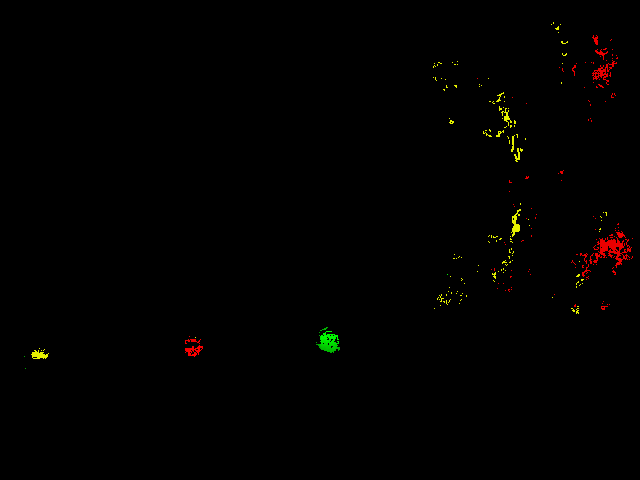
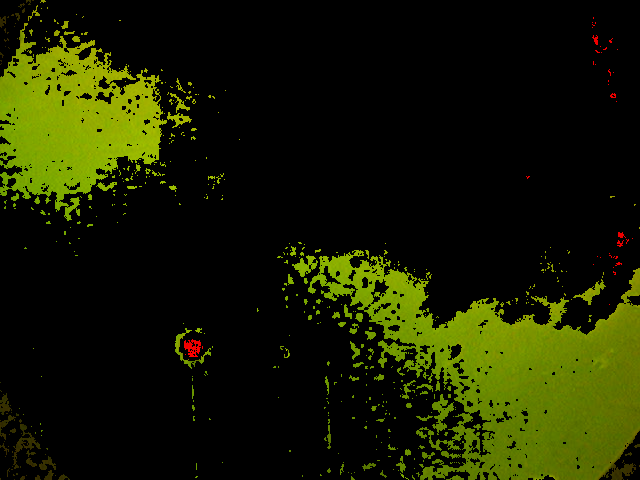
yellow_hls

diff --git a/GMM.py b/GMM.py
@@ -12,6 +12,8 @@ import cv2
 import sys
 import glob
 import math
+from copy import deepcopy
+
 
 # from matplotlib.patches import Ellipse
 # from PIL import Image
@@ -256,12 +258,22 @@ def create_pdf(params, X, img, shape, name):
     print("seg:", seg_g.shape)
 
     pdf = np.zeros((len(X),3))
+    # img_copy = deepcopy(img)
+    img_hls = cv2.cvtColor(img, cv2.COLOR_RGB2HLS)
+    X_hls = img_hls.reshape((img_hls.shape[0]*img_hls.shape[1], img_hls.shape[2]))
     x = np.array(X, dtype='uint8')
+    x_hls = np.array(X_hls, dtype='uint8')
 
     # get pixel probabilities for all clusters
     for i, clusters in enumerate(params):
+        if i < 2:
+            x_ = x
+        else:
+            x_[:, 0] = x_hls[:, 2]
+            x_[:, 1] = x_hls[:, 1]
+            x_[:, 2] = x_hls[:, 0]
         for cluster in clusters:
-            y_r = multivariate_normal.pdf(x, cluster['mu_k'], cluster['cov_k'])
+            y_r = multivariate_normal.pdf(x_, cluster['mu_k'], cluster['cov_k'])
             pdf[:,i] = pdf[:,i] + cluster['pi_k'] * y_r
 
     # Display generated GMM models
@@ -280,9 +292,9 @@ def create_pdf(params, X, img, shape, name):
     # fig3 = plt.figure()
     # ax3 = fig3.gca()
     # ax3.set_title("Yellow")
-    # ax3.plot(x[:,0], pdf[:,2], 'r')
-    # ax3.plot(x[:,1], pdf[:,2], 'g')
-    # ax3.plot(x[:,2], pdf[:,2], 'b')
+    # ax3.plot(x_hls[:,0], pdf[:,2], 'b')
+    # ax3.plot(x_hls[:,1], pdf[:,2], 'g')
+    # ax3.plot(x_hls[:,2], pdf[:,2], 'r')
     # plt.show()
 
     # Extract PDF for every cluster
@@ -290,7 +302,7 @@ def create_pdf(params, X, img, shape, name):
     pdf_r = pdf[:,0].reshape((shape[0], shape[1]))
     pdf_g = pdf[:,1].reshape((shape[0], shape[1]))
     pdf_y = pdf[:,2].reshape((shape[0], shape[1]))
-    pdf = pdf.reshape(shape)
+    pdf = pdf.reshape(shape)    
 
     # segment buoys
 
@@ -302,10 +314,17 @@ def create_pdf(params, X, img, shape, name):
             max_prob = max(pdf[i][j])
             if max_prob == pdf_r[i][j] and pdf_r[i][j] > 1.5*10**-5:
                 seg_o[i][j] = 255
-            elif max_prob == pdf_y[i][j] and pdf_y[i][j] > 1*10**-4:
+            elif max_prob == pdf_y[i][j] and pdf_y[i][j] > 5*10**-6:
                 seg_y[i][j] = 255
             elif max_prob == pdf_g[i][j] and pdf_g[i][j] > 10**-5:
                 seg_g[i][j] = 255
+
+            #     seg_image[i][j][2] = img[i][j][2]
+            # elif max_prob == pdf_y[i][j]:
+            #     seg_image[i][j][1] = img[i][j][1]
+            #     seg_image[i][j][2] = img[i][j][2]
+            # elif max_prob == pdf_g[i][j] and pdf_g[i][j] > 10**-1:
+            #     seg_image[i][j][1] = img[i][j][1]
 
             # elif pdf_g[i][j] > pdf_r[i][j] and pdf_g[i][j] > pdf_y[i][j] and pdf_g[i][j] > 10**-5:
             #     seg_image[i][j][1] = 255
@@ -323,8 +342,10 @@ def create_pdf(params, X, img, shape, name):
         os.makedirs("Data/Output/Frames/")
     cv2.imwrite("Data/Output/Frames/" + name, img)
 
-    cv2.imshow('img', img)
-    cv2.waitKey(0)
+    cv2.imwrite("Test.png", seg_y)
+
+    # cv2.imshow('img', img)
+    # cv2.waitKey(0)
 
 
 def detect_green(img,seg,color):
@@ -456,12 +477,13 @@ def detect_yellow(img,seg,color):
             cv2.circle(img, center, radius, color, 2)
     return img
 
-
 def start_training():
     X = []
     image_paths = glob.glob("Data/Yellow/Extracted/*")
     for image_path in image_paths[:10]:
         image = cv2.imread(image_path)
+        image = cv2.cvtColor(image, cv2.COLOR_BGR2HLS)
+        # image = cv2.cvtColor(image, cv2.COLOR_RGB2BGR)
         for i in range(image.shape[1]):
             for j in range(image.shape[0]):
                 if [image[j][i][2], image[j][i][1], image[j][i][0]] != [0,0,0]:
@@ -471,6 +493,7 @@ def start_training():
     X = []
     for image_path in image_paths[10:20]:
         image = cv2.imread(image_path)
+        image = cv2.cvtColor(image, cv2.COLOR_BGR2HLS)
         for i in range(image.shape[1]):
             for j in range(image.shape[0]):
                 if [image[j][i][2], image[j][i][1], image[j][i][0]] != [0,0,0]:
@@ -479,6 +502,7 @@ def start_training():
     X = []
     for image_path in image_paths[20:30]:
         image = cv2.imread(image_path)
+        image = cv2.cvtColor(image, cv2.COLOR_BGR2HLS)
         for i in range(image.shape[1]):
             for j in range(image.shape[0]):
                 if [image[j][i][2], image[j][i][1], image[j][i][0]] != [0,0,0]:
@@ -487,6 +511,7 @@ def start_training():
     X = []
     for image_path in image_paths[30:40]:
         image = cv2.imread(image_path)
+        image = cv2.cvtColor(image, cv2.COLOR_BGR2HLS)
         for i in range(image.shape[1]):
             for j in range(image.shape[0]):
                 if [image[j][i][2], image[j][i][1], image[j][i][0]] != [0,0,0]:
@@ -495,6 +520,7 @@ def start_training():
     X = []
     for image_path in image_paths[40:50]:
         image = cv2.imread(image_path)
+        image = cv2.cvtColor(image, cv2.COLOR_BGR2HLS)
         for i in range(image.shape[1]):
             for j in range(image.shape[0]):
                 if [image[j][i][2], image[j][i][1], image[j][i][0]] != [0,0,0]:
@@ -503,6 +529,7 @@ def start_training():
     X = []
     for image_path in image_paths[50:60]:
         image = cv2.imread(image_path)
+        image = cv2.cvtColor(image, cv2.COLOR_BGR2HLS)
         for i in range(image.shape[1]):
             for j in range(image.shape[0]):
                 if [image[j][i][2], image[j][i][1], image[j][i][0]] != [0,0,0]:
@@ -511,6 +538,7 @@ def start_training():
     X = []
     for image_path in image_paths[60:70]:
         image = cv2.imread(image_path)
+        image = cv2.cvtColor(image, cv2.COLOR_BGR2HLS)
         for i in range(image.shape[1]):
             for j in range(image.shape[0]):
                 if [image[j][i][2], image[j][i][1], image[j][i][0]] != [0,0,0]:
@@ -519,6 +547,7 @@ def start_training():
     X = []
     for image_path in image_paths[70:80]:
         image = cv2.imread(image_path)
+        image = cv2.cvtColor(image, cv2.COLOR_BGR2HLS)
         for i in range(image.shape[1]):
             for j in range(image.shape[0]):
                 if [image[j][i][2], image[j][i][1], image[j][i][0]] != [0,0,0]:
@@ -527,6 +556,7 @@ def start_training():
     X = []
     for image_path in image_paths[80:90]:
         image = cv2.imread(image_path)
+        image = cv2.cvtColor(image, cv2.COLOR_BGR2HLS)
         for i in range(image.shape[1]):
             for j in range(image.shape[0]):
                 if [image[j][i][2], image[j][i][1], image[j][i][0]] != [0,0,0]:
@@ -535,6 +565,7 @@ def start_training():
     X = []
     for image_path in image_paths[90:100]:
         image = cv2.imread(image_path)
+        image = cv2.cvtColor(image, cv2.COLOR_BGR2HLS)
         for i in range(image.shape[1]):
             for j in range(image.shape[0]):
                 if [image[j][i][2], image[j][i][1], image[j][i][0]] != [0,0,0]:
@@ -543,6 +574,7 @@ def start_training():
     X = []
     for image_path in image_paths[100:110]:
         image = cv2.imread(image_path)
+        image = cv2.cvtColor(image, cv2.COLOR_BGR2HLS)
         for i in range(image.shape[1]):
             for j in range(image.shape[0]):
                 if [image[j][i][2], image[j][i][1], image[j][i][0]] != [0,0,0]:
@@ -551,6 +583,7 @@ def start_training():
     X = []
     for image_path in image_paths[110:120]:
         image = cv2.imread(image_path)
+        image = cv2.cvtColor(image, cv2.COLOR_BGR2HLS)
         for i in range(image.shape[1]):
             for j in range(image.shape[0]):
                 if [image[j][i][2], image[j][i][1], image[j][i][0]] != [0,0,0]:
@@ -559,6 +592,7 @@ def start_training():
     X = []
     for image_path in image_paths[120:130]:
         image = cv2.imread(image_path)
+        image = cv2.cvtColor(image, cv2.COLOR_BGR2HLS)
         for i in range(image.shape[1]):
             for j in range(image.shape[0]):
                 if [image[j][i][2], image[j][i][1], image[j][i][0]] != [0,0,0]:
@@ -567,12 +601,13 @@ def start_training():
     X = []
     for image_path in image_paths[130:]:
         image = cv2.imread(image_path)
+        image = cv2.cvtColor(image, cv2.COLOR_BGR2HLS)
         for i in range(image.shape[1]):
             for j in range(image.shape[0]):
                 if [image[j][i][2], image[j][i][1], image[j][i][0]] != [0,0,0]:
                     X.append([int(image[j][i][2]), int(image[j][i][1]), int(image[j][i][0])])
     clusters, likelihoods, scores, sample_likelihoods, history = train_gmm(np.array(X), 3, 30, clusters, True)
-    f = open("clusters_yellow.txt", "a+")
+    f = open("clusters_yellow_hsv.txt", "a+")
     for cluster in clusters:
         f.write(str(cluster['mu_k']))
         f.write(str(cluster['cov_k']))
@@ -582,7 +617,6 @@ def start_training():
     
 if __name__ == '__main__':
     # start_training()
-    X = []
     # Red
     params = []
     params.append([{'mu_k': [224.24308412, 188.40766512, 135.35937751],
@@ -617,32 +651,49 @@ if __name__ == '__main__':
                         [180.9066731,  330.25013577, 102.67266542],
                         [ 78.33404419, 102.67266542,  71.72121417]],
                'pi_k': [0.45197282]}])
-    # yellow
-    params.append([{'mu_k': [212.86290854, 220.68219435, 118.23609258],
-              'cov_k':[[1031.79711432,  584.75558749,   36.38668374],
-                       [ 584.75558749,  456.76008394,  278.65632245],
-                       [  36.38668374,  278.65632245,  858.18023939]],
-              'pi_k': [0.39008973]},
-             {'mu_k': [229.51226295, 240.6241885,  139.21091162],
-              'cov_k':[[  7.38586612,   1.51749218, -42.08377392],
-                       [1.51749218,   4.52050088, - 29.73265531],
-                       [-42.08377392, - 29.73265531, 772.02085145]],
-              'pi_k': [0.55869529]},
-             {'mu_k': [82.88271189, 91.51975606, 61.31964543],
-              'cov_k': [[2505.82094342, 2687.98151126, 1836.63756781],
-                        [2687.98151126, 2944.4162938,  2029.92877086],
-                        [1836.63756781, 2029.92877086, 1480.67198803]],
-              'pi_k': [0.05121499]}])
+    # # yellow
+    # params.append([{'mu_k': [212.86290854, 220.68219435, 118.23609258],
+    #           'cov_k':[[1031.79711432,  584.75558749,   36.38668374],
+    #                    [ 584.75558749,  456.76008394,  278.65632245],
+    #                    [  36.38668374,  278.65632245,  858.18023939]],
+    #           'pi_k': [0.39008973]},
+    #          {'mu_k': [229.51226295, 240.6241885,  139.21091162],
+    #           'cov_k':[[  7.38586612,   1.51749218, -42.08377392],
+    #                    [1.51749218,   4.52050088, - 29.73265531],
+    #                    [-42.08377392, - 29.73265531, 772.02085145]],
+    #           'pi_k': [0.55869529]},
+    #          {'mu_k': [82.88271189, 91.51975606, 61.31964543],
+    #           'cov_k': [[2505.82094342, 2687.98151126, 1836.63756781],
+    #                     [2687.98151126, 2944.4162938,  2029.92877086],
+    #                     [1836.63756781, 2029.92877086, 1480.67198803]],
+    #           'pi_k': [0.05121499]}])
+    # yellow_hls
+    params.append([{'mu_k': [182.94576047, 175.4008258,   32.33167745],
+                    'cov_k':[[1776.41625016,  336.33966579, -144.87748637],
+                             [ 336.33966579,  465.20102031,   48.7071449 ],
+                             [-144.87748637,   48.7071449,    40.14885018]],
+                    'pi_k': [0.30991155]},
+                   {'mu_k': [168.91054492, 206.42955845,  34.93661804],
+                    'cov_k':[[37.32255183, -2.92597521,  1.75896241],
+                             [-2.92597521,  2.14575207,  0.3472663 ],
+                             [ 1.75896241,  0.3472663,   0.77283132]],
+                    'pi_k': [0.18545952]},
+                   {'mu_k': [205.99802312, 180.80164656,  32.71156968],
+                    'cov_k':[[122.76159927, -88.65675639,  -5.71343193],
+                             [-88.65675639, 152.23781577,  15.79192532],
+                             [ -5.71343193,  15.79192532,   2.22807766]],
+                    'pi_k': [0.50462893]}])
 
-    # image = cv2.imread("Data/Green/Test/frame008.png")
+    X = []
+    # image = cv2.imread("Data/Yellow/Test/frame008.png")
+    # image = cv2.cvtColor(image, cv2.COLOR_BGR2RGB)
+    # X = image.reshape((image.shape[0]*image.shape[1], image.shape[2]))
+    # create_pdf(params, X, image, image.shape, "frame008.png")
+
     current_dir = os.path.dirname(os.path.abspath(__file__))
     img_dir = os.path.join(current_dir, "Frames/")
-    count =0
     for name in sorted(os.listdir(img_dir)):
         image = cv2.imread(os.path.join(img_dir, name))
         image = cv2.cvtColor(image, cv2.COLOR_BGR2RGB)
         X = image.reshape((image.shape[0]*image.shape[1], image.shape[2]))
         create_pdf(params, X, image, image.shape, name)
-        count =count +1
-        # if count==1:
-        #     break

diff --git a/data_generation.py b/data_generation.py
@@ -96,9 +96,9 @@ def data_generation():
 
     elif ch == 'y':
         for name in sorted(os.listdir(yellow_dir)):
-            if count < 19:
+            if count >= 24:
                 count = count + 1
-                continue
+                break
             im = cv2.imread(os.path.join(yellow_dir, name))
             count = count + 1
 
